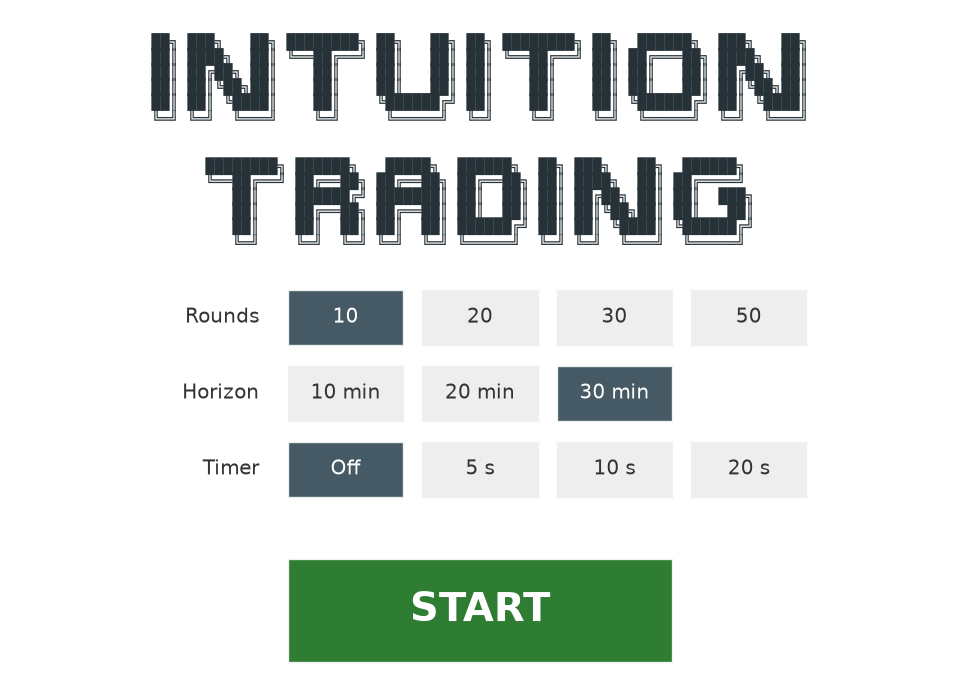
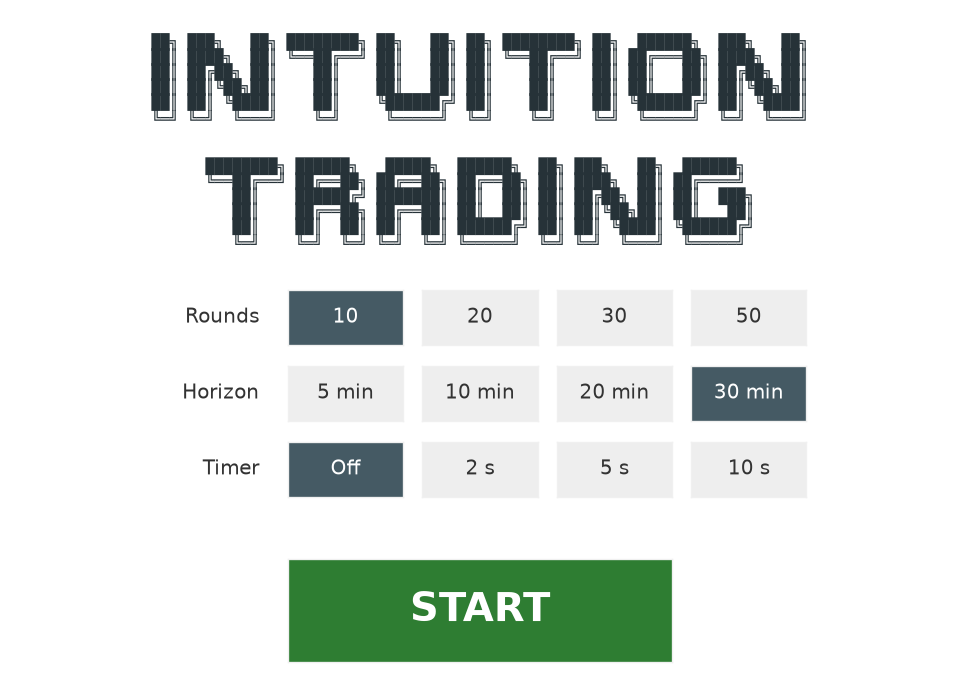
Added 5 min time horizon and 2s timeout options

diff --git a/src/intuition_trading/config.py b/src/intuition_trading/config.py
@@ -1,13 +1,13 @@
 from pathlib import Path
 
 LOOKBACK_BARS = 60  # visible history, one hour
-HORIZON_OPTIONS = (10, 20, 30)  # minutes; selectable per session via --horizon
-HORIZON_BARS = HORIZON_OPTIONS[0]  # default prediction horizon
+HORIZON_OPTIONS = (5, 10, 20, 30)  # minutes; selectable per session via --horizon
+HORIZON_BARS = 10  # default prediction horizon when using the CLI flags; one of HORIZON_OPTIONS
 SESSION_ROUNDS = 20  # overridable via CLI
 
 # Seconds allowed per guess; 0 = no timer. When time runs out, the round is
 # guessed at random, so every round stays a fair 50/50 for the statistics.
-TIMER_OPTIONS = (0, 5, 10, 20)  # selectable per session via --timer
+TIMER_OPTIONS = (0, 2, 5, 10)  # selectable per session via --timer
 TIMER_SECONDS = 0  # default when using the CLI flags
 
 # Start screen (shown when the game is launched without --rounds/--horizon/--timer)

diff --git a/tests/test_launcher.py b/tests/test_launcher.py
@@ -45,6 +45,12 @@ def test_launcher_defaults_are_offered_options():
     assert config.LAUNCHER_TIMER in config.TIMER_OPTIONS
 
 
+def test_cli_defaults_are_offered_options():
+    """The --horizon/--timer defaults must be values those flags accept."""
+    assert config.HORIZON_BARS in config.HORIZON_OPTIONS
+    assert config.TIMER_SECONDS in config.TIMER_OPTIONS
+
+
 @pytest.mark.parametrize("word", ["INTUITION", "TRADING"])
 def test_banner_rows_line_up(word):
     rows = launcher.banner(word).split("\n")

diff --git a/README.md b/README.md
@@ -74,7 +74,7 @@ right. There's no price scale, ticker or time of day.
 Arrow keys: **↑** predicts up, **↓** predicts down. **q** quits early. The
 buttons under the chart do the same with the mouse.
 
-**The timer** (5, 10 or 20 seconds) puts a bar above the chart that empties as
+**The timer** (2, 5 or 10 seconds) puts a bar above the chart that empties as
 time runs out — some of the pressure of deciding in a live market. If it runs
 out, the game guesses up or down at random for you, and the round is scored on
 that guess. That keeps every round a fair coin flip for the statistics, and it
@@ -312,9 +312,10 @@ All in `config.py`:
 | Setting | Default | Notes |
 |---------|---------|-------|
 | `LOOKBACK_BARS` | `60` | Visible history, one hour |
-| `HORIZON_OPTIONS` | `(10, 20, 30)` | Selectable prediction horizons, in minutes, on the start screen or via `--horizon` |
+| `HORIZON_OPTIONS` | `(5, 10, 20, 30)` | Selectable prediction horizons, in minutes, on the start screen or via `--horizon` |
+| `HORIZON_BARS` | `10` | Horizon when using the CLI flags; overridable via `--horizon` |
 | `SESSION_ROUNDS` | `20` | Session length when using the CLI flags; overridable via `--rounds` |
-| `TIMER_OPTIONS` | `(0, 5, 10, 20)` | Seconds per guess (`0` = no timer), on the start screen or via `--timer` |
+| `TIMER_OPTIONS` | `(0, 2, 5, 10)` | Seconds per guess (`0` = no timer), on the start screen or via `--timer` |
 | `TIMER_SECONDS` | `0` | Timer when using the CLI flags; overridable via `--timer` |
 | `ROUND_OPTIONS` | `(10, 20, 30, 50)` | Session lengths offered on the start screen |
 | `LAUNCHER_ROUNDS` | `10` | Start screen's preselected rounds |
